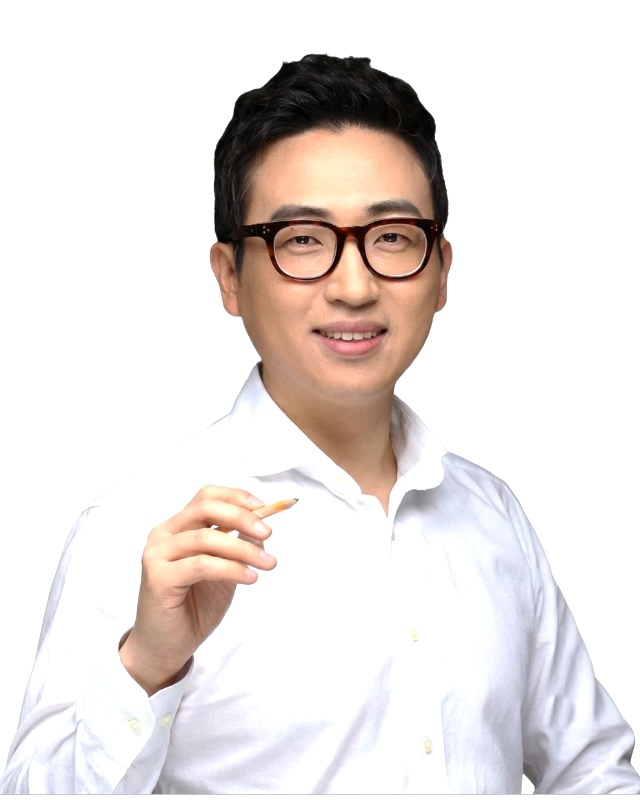
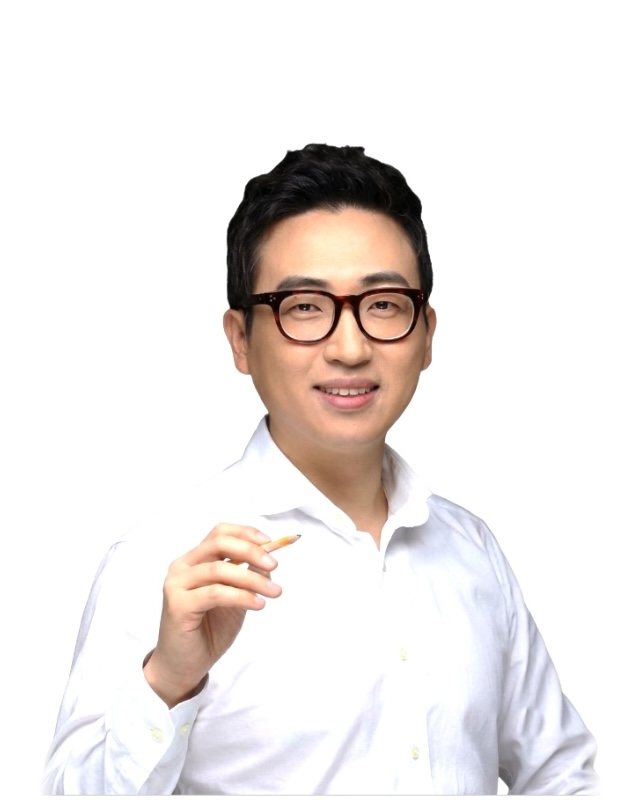
강사 사진 크기 조정(정민 최대, 권현석↑, 김경한·문지현·박정은·고연승↓), 탐구 순서 변경·임현철 추가, 최한근·안민형 통합과학, 11/29 예비고3 설명회 팝업

diff --git a/index.html b/index.html
@@ -578,12 +578,15 @@ const T=[
  {n:'신연우',s:'수학',t:'수학 · 송도 1:1 관리',l:'https://shinyeonwoomath.com',c:['경기고 수석 입학 · 수석 졸업','메이저 의대 출신 수능 수학 전문 강사','수능 수학의 일반화','자체 개발 시스템을 통한 초개인화 관리','★강사상주형★ 무한 1:1 클리닉']},
  {n:'권현석',s:'수학',c:['서울대학교 졸업','강남대성','대치 두각']},
  {n:'정민',s:'영어',c:['고려대학교 영어교육과','메가스터디 최상위권 담당 강사','강의평가 1위','모의고사 출제 · 검수 위원']},
- {n:'홍진수',s:'탐구',t:'통합과학',c:['서울대학교','현) 대성마이맥 수능 물리학 인강','현) 대치 미래탐구','전) 대치 다원교육','전) 강남대성학원']},
- {n:'최정윤',s:'탐구',t:'통합과학',c:['서울대학교','스카이에듀','Mensa 정회원','MTN 머니투데이 매거진S 출연']},
- {n:'고아름',s:'탐구',t:'사탐',c:[]},
  {n:'이예섭',s:'탐구',t:'통합사회',c:['현) 미래탐구 마포고등센터 사회탐구 강사','현) 강남대성학원 사회탐구 강사','현) 시대인재 특목관 강사','전) 대성마이맥 인터넷 강의 사회탐구 강사','강남대성학원 연속 강의평가 1위','강남대성학원 강의평가 우수 강사 (수강생 설문 기준)']},
  {n:'정지만',s:'탐구',t:'통합사회',c:['서울과학고등학교 졸업 · 서울대학교 사회교육과','현) 강남대성 수능 연구소 연구원','현) 강남대성학원 사회 · 문화 강사','전) 청심국제고 정교사','고등학교 국제 경제 · 세계 문제 교과서 집필','동아출판사 고등학교 사회 교과서 집필','EBS 수능특강 · 수능완성 검토 위원','전국 단위 모의고사 출제 위원 4년']},
  {n:'김현중',s:'탐구',t:'통합사회',c:['고려대학교 졸업','숨마투스','종로학원','강의평가 1위']},
+ {n:'임현철',s:'탐구',t:'통합사회',c:['고려대학교 교육대학원 일반사회 교육 전공 수료','중앙대학교 정치외교학과 · 경제학과 졸업','현) 강남대성','현) 독수리 의대관']},
+ {n:'최정윤',s:'탐구',t:'통합과학',c:['서울대학교','스카이에듀','Mensa 정회원','MTN 머니투데이 매거진S 출연']},
+ {n:'홍진수',s:'탐구',t:'통합과학',c:['서울대학교','현) 대성마이맥 수능 물리학 인강','현) 대치 미래탐구','전) 대치 다원교육','전) 강남대성학원']},
+ {n:'박남진',s:'탐구',t:'통합과학',c:['현) 대치 두각','현) 강남대성','현) 독수리 의대관','전) 대치 시대인재','전) 스카이에듀 인강']},
+ {n:'최한근',s:'탐구',t:'통합과학',c:['고려대학교 생물교육과','현) 강남대성','강남대성 수능연구소 생명과학 책임 연구원','「강대모의고사K」 출제진','전) 메가스터디 · 이투스 인강']},
+ {n:'안민형',s:'탐구',t:'통합과학',c:['고려대학교 지구환경과학과 졸업','서울대 대학원 과학교육과 지구과학전공 석사 수료','현) 강남대성 · 독수리 의대관','강남대성 2019 최우수 강사']},
  {n:'이창환',s:'수학',c:['서울대학교 수학과','현) 아폴론교육 · 명인학원 · 미래탐구학원','『고수수학』 시리즈','『서울대 수학 심층 해설집』 (조합 · 기하)']},
  {n:'최현재',s:'국어',t:'국어 · 고3 내신',c:['고려대학교 졸업','메가로스쿨 LEET 언어이해 전국모의고사 출제 · 검토 위원 (2018년~)','상상 모의고사 인문 분야 독서 출제 (2021년~)','강대K 모의고사 독서 출제 · 검토 (2021년~)','바탕 모의고사 사회 분야 독서 출제 (2021년~)']},
  {n:'손영호',s:'수학',c:['서울대학교 수학과 · 포항공대 석사','미래탐구 · 포철고 · 천안북일고 등 자사고 · 지자체 논술 강의']},
@@ -597,9 +600,7 @@ const T=[
  {n:'문지현',s:'영어',c:['현) 메가스터디 영어 인강 대표강사','러셀 공채 1위 영어강사','전) 휘문고 · 단대부고 · 세화고 전임','매년 수능 만점자 배출','이투스북 모의고사 출제 · 검토']},
  {n:'박정은',s:'영어',c:['서울대학교 영어영문학과','서초 메가스터디 강의평가 1위','메가스터디 6월 · 9월 수능 모의평가 대표 평가위원','대성 모의고사 평가위원 (Dfine · Darchaive 모의고사 외)']},
  {n:'고연승',s:'영어',t:'영어 · 메디컬 핵심반',c:['연세대학교 영어영문학과 졸업 · 영어교육학과 석사','현) EBSi 수능 라인업 대표 강사','현) 대치 독수리 의대관','전) 전국모의고사 출제위원','전) 중동고 정교사','강남대성 S2 출강 및 담임','2024 수능연계 교재 『수능완성』 집필']},
- {n:'박남진',s:'탐구',t:'통합과학',c:['현) 대치 두각','현) 강남대성','현) 독수리 의대관','전) 대치 시대인재','전) 스카이에듀 인강']},
- {n:'최한근',s:'탐구',t:'생명과학',c:['고려대학교 생물교육과','현) 강남대성','강남대성 수능연구소 생명과학 책임 연구원','「강대모의고사K」 출제진','전) 메가스터디 · 이투스 인강']},
- {n:'안민형',s:'탐구',t:'지구과학',c:['고려대학교 지구환경과학과 졸업','서울대 대학원 과학교육과 지구과학전공 석사 수료','현) 강남대성 · 독수리 의대관','강남대성 2019 최우수 강사']},
+ {n:'고아름',s:'탐구',t:'사탐',c:[]},
  {n:'강윤구',s:'수학',c:['서울대학교 기계항공공학부','이투스 온라인 수학 인강 강사','공인회계사(CPA) 합격','의치대생 · 서울대생 최근 5년간 100명 이상 제자 배출']},
  {n:'이정태',s:'탐구',t:'통합사회 · 인문논술',c:['서울대학교 문화인류학과 · 미시간주립대 석사','아폴론 · 이슈앤스카이','전) 중앙일보 기자','『밥상에 차려진 통합논술』']},
  {n:'안재훈',s:'논술',t:'인문 · 약술국어',c:['서울대학교 철학과 · 서울대 행정대학원','하나고 · 포항제철고 출강','저서 다수']},
@@ -615,7 +616,7 @@ const T=[
 ];
 const list=document.getElementById('tlist');
 /* 사진: img/teachers/이름.jpg 를 PHOTO 에 적으면 사진, 없으면 성 한 글자 */
-const PHOTO={};['류성훈','이태형','장의순','김호랑','고연승','신연우','권현석','정민','홍진수','최정윤','이예섭','정지만','김현중','이창환','최현재','김경한','문지현','박정은','박남진','최한근','안민형','강윤구'].forEach(n=>PHOTO[n]='img/teachers/'+n+'.jpg?v=1126a');
+const PHOTO={};['류성훈','이태형','장의순','김호랑','고연승','신연우','권현석','정민','홍진수','최정윤','이예섭','정지만','김현중','이창환','최현재','김경한','문지현','박정은','박남진','최한근','안민형','강윤구'].forEach(n=>PHOTO[n]='img/teachers/'+n+'.jpg?v=1126b');
 /* 줄 순서: 1줄 국어 · 2줄 수학 · 3줄 영어 · 4줄 탐구 · 논술 (11/19 사장님 요청)
    같은 과목 안에서는 (탐구는 통합과학·통합사회·사탐 순으로 묶고) 사진 있는 강사 먼저, 나머지는 배열 순서 그대로 */
 const SUBJ=['국어','수학','영어','탐구','논술'];
@@ -787,6 +788,86 @@ document.addEventListener('click',e=>{
     }).catch(function(x){err.textContent=(x&&x.message&&x.message.indexOf('fetch')<0?x.message:'접수 중 문제가 생겼습니다.')+' 010-3633-8240으로 문자 주세요.';})
     .finally(function(){b.disabled=false;b.textContent='상담 예약 신청하기';});
   });
+})();
+</script>
+<!-- 11/29 예비고3 입시전략설명회 팝업 (11/29 지나면 자동으로 안 뜸) -->
+<style>
+#sm-wrap{position:fixed;inset:0;z-index:9999;background:rgba(10,16,32,.62);display:none;align-items:center;justify-content:center;padding:16px}
+#sm-wrap.on{display:flex}
+#sm,#sm *{box-sizing:border-box}
+#sm .bd *{white-space:normal;max-width:100%;min-width:0}
+#sm .smt{border:0;padding:0;background:none}
+#sm{position:relative;background:#fff;width:min(520px,calc(100vw - 32px));max-height:88vh;display:flex;flex-direction:column;border-radius:18px;overflow:hidden;box-shadow:0 20px 60px rgba(0,0,0,.35);font-size:14.5px;line-height:1.62;color:#1f2937;word-break:keep-all}
+#sm .hd{background:#0f1d3a;color:#fff;padding:20px 22px 16px}
+#sm .hd small{display:inline-block;background:#d4a017;color:#0f1d3a;font-weight:900;border-radius:999px;padding:2px 10px;font-size:12.5px}
+#sm .hd h3{margin:8px 0 6px;font-size:21px;font-weight:900;line-height:1.35}
+#sm .hd p{margin:0;font-size:14px;opacity:.92}
+#sm .bd{overflow-y:auto;padding:16px 22px 6px}
+#sm h4{margin:14px 0 6px;font-size:15px;color:#8C1D2C;font-weight:900}
+#sm ol{margin:0;padding-left:20px}
+#sm ul{margin:0;padding-left:18px}
+#sm .smt{margin:10px 0 0}
+#sm .smt b{display:block;color:#0f1d3a}
+#sm .smt span{color:#4b5563;font-size:13.5px}
+#sm .rsv{background:#fff7d6;border:1px solid #ecd27a;border-radius:12px;padding:12px 14px;margin:14px 0 8px}
+#sm .rsv a{color:#0f1d3a;font-weight:800;text-decoration:underline}
+#sm .cta{display:block;text-align:center;background:#d4a017;color:#0f1d3a;font-weight:900;font-size:16.5px;border-radius:12px;padding:13px;margin:12px 0 4px;text-decoration:none}
+#sm .ft{display:flex;justify-content:space-between;align-items:center;border-top:1px solid #e5e7eb;padding:10px 16px;font-size:13.5px;background:#f8fafc}
+#sm .ft label{display:flex;gap:6px;align-items:center;cursor:pointer;color:#4b5563}
+#sm .ft button{border:0;background:#0f1d3a;color:#fff;border-radius:9px;padding:8px 18px;font:inherit;font-weight:800;cursor:pointer}
+#sm .x{position:absolute;top:10px;right:12px;background:rgba(255,255,255,.18);border:0;color:#fff;width:32px;height:32px;border-radius:50%;font-size:20px;cursor:pointer}
+</style>
+<div id="sm-wrap" role="dialog" aria-modal="true" aria-labelledby="sm-title">
+ <div id="sm">
+  <button class="x" type="button" aria-label="닫기" data-sm-close>×</button>
+  <div class="hd">
+   <small>예비고3 · 2028 수능</small>
+   <h3 id="sm-title">★ 예비고3 2028수능 입시전략설명회 ★</h3>
+   <p>■ 일시: 11월 29일 (일) 오후 2시<br>■ 장소: 대치 독수리의대관 (도곡로 70길 5, 2층)</p>
+  </div>
+  <div class="bd">
+   <ol>
+    <li>2027 선택형수능과 2028 통합형수능 체계변화 분석</li>
+    <li>2028 수능정시 주요대학 선발규모 및 특이사항 분석</li>
+    <li>2028 수시교과 교과환산방식 및 서류평가도입 영향력</li>
+    <li>2028 수시종합 전형방식변화 및 권장교과이수 영향력</li>
+    <li>2028 수시논술 논술출제범위 및 수능최저실질 영향력</li>
+    <li>예비고3 향후 시기별/일정별 대입 Checklist</li>
+   </ol>
+   <h4>[주요 연사]</h4>
+   <div class="smt"><b>▶ 이종윤 입시 컨설턴트</b>
+    <ul>
+     <li>현 메가스터디 입시전략연구소 대표 컨설턴트</li>
+     <li>전 강남 메가스터디학원 입시전략센터장</li>
+     <li>주요 강연: 메가스터디 자연계 최상위권 입시설명회 (코엑스 1000명 초과), 팀플 콘서트 (숙명여고 2000명 참여) 등</li>
+     <li>수시·정시 컨설팅 누적 합격생 3000여 명</li>
+    </ul></div>
+   <h4>[★소수정예 집중관리★ 설명회]</h4>
+   <div class="smt"><b>◆ (국어) 이태형T — 오늘부로 시험을 잘 보는 사람으로 다시 태어나다!</b><span>시대인재 대치 · 다원교육 / 행정고시 2차 PASS · LEET 언어이해 1등 · 수능국어 만점자 배출</span></div>
+   <div class="smt"><b>◆ (수학) 신연우T — 만점을 당연하게, 하방은 92점</b><span>경기고 수석 입학 · 수석 졸업 / 메이저 의대 출신 수능 수학 전문 강사 / 자체 개발 시스템을 통한 초개인화 관리 / ★강사상주형★ 무한 1:1 클리닉</span></div>
+   <div class="smt"><b>◆ (수학) 김경한T — 최신 수학트렌드 완벽 반영! 만점보장! 등급을 올리는 확실한 방법!</b><span>대치두각 · EBS · 대성마이맥 인강</span></div>
+   <div class="smt"><b>◆ (국어) 류성훈T — 4등급을 1등급으로, 1등급을 만점으로</b><span>대치두각 · 대성학원 S2 강의평가 최우수 강사</span></div>
+   <div class="rsv"><b>[ 11/29(일) 2시 설명회 참석 예약 안내 ]</b><br>
+    - 유선 예약: <a href="tel:025550974">02-555-0974</a><br>
+    - 문자 예약: <a href="sms:01051590974">010-5159-0974</a> (이름/학년)<br>
+    - 온라인 예약: <a href="https://forms.gle/jaDBD4LhUSaA9Nw38" target="_blank" rel="noopener">forms.gle/jaDBD4LhUSaA9Nw38</a></div>
+   <a class="cta" href="https://forms.gle/jaDBD4LhUSaA9Nw38" target="_blank" rel="noopener">설명회 온라인 예약하기 ›</a>
+   <p style="margin:10px 0 12px;font-size:13.5px;color:#4b5563">★ 합격이 최우선인 강의 ★<br>● 독한수능리더 &lt;독수리의대관&gt;<br>● 오픈반/팀수업/개인 문의: <a href="tel:01051590974">010 5159 0974</a><br><a href="https://blog.naver.com/doksuri_doctor" target="_blank" rel="noopener">blog.naver.com/doksuri_doctor</a> (블로그)</p>
+  </div>
+  <div class="ft"><label><input type="checkbox" id="sm-today"> 오늘 하루 보지 않기</label><button type="button" data-sm-close>닫기</button></div>
+ </div>
+</div>
+<script>
+(function(){
+  var END=new Date('2026-11-29T18:00:00+09:00'),K='sm1129_hide';
+  if(Date.now()>END)return;
+  var t=new Date(),d=t.getFullYear()+'-'+(t.getMonth()+1)+'-'+t.getDate();
+  try{if(localStorage.getItem(K)===d)return;}catch(e){}
+  var w=document.getElementById('sm-wrap');
+  function close(){try{if(document.getElementById('sm-today').checked)localStorage.setItem(K,d);}catch(e){}w.classList.remove('on');}
+  w.addEventListener('click',function(e){if(e.target===w||e.target.hasAttribute('data-sm-close'))close();});
+  document.addEventListener('keydown',function(e){if(e.key==='Escape')close();});
+  setTimeout(function(){w.classList.add('on');},400);
 })();
 </script>
 </body>
